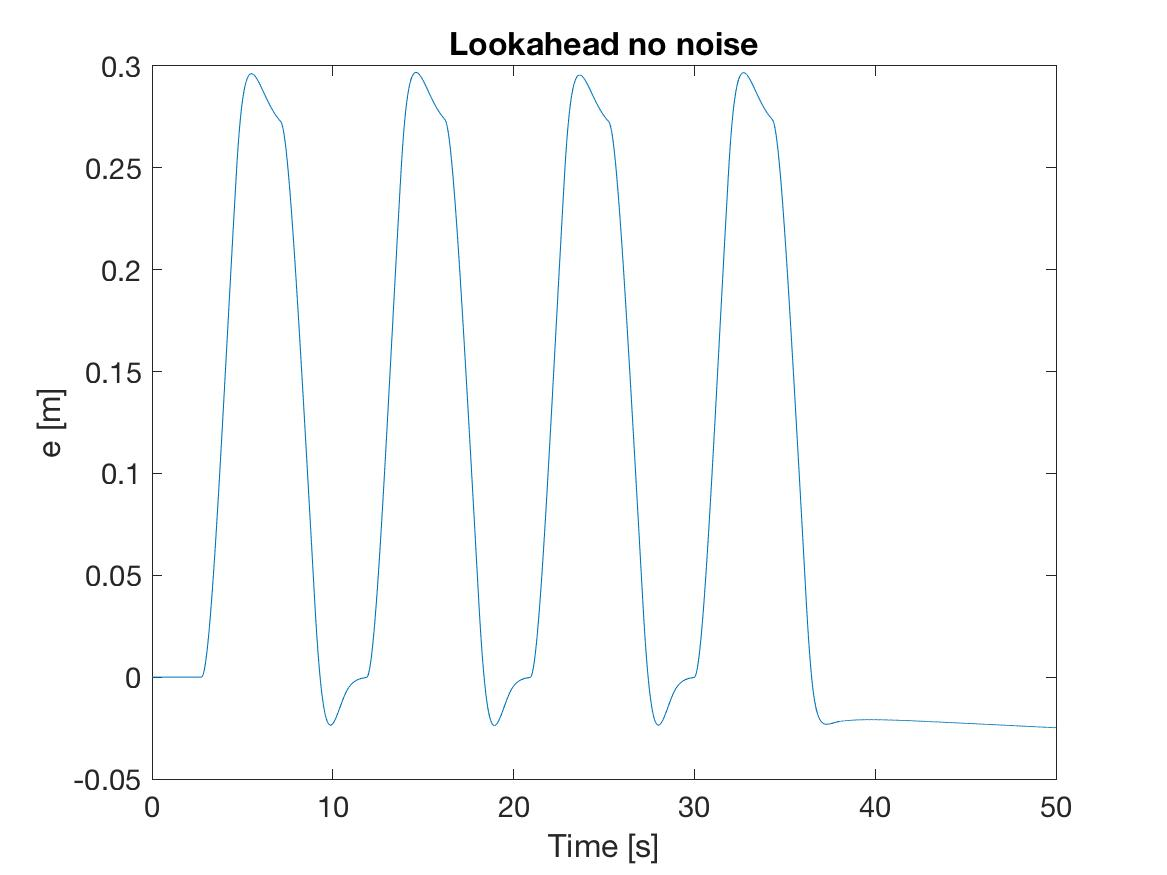
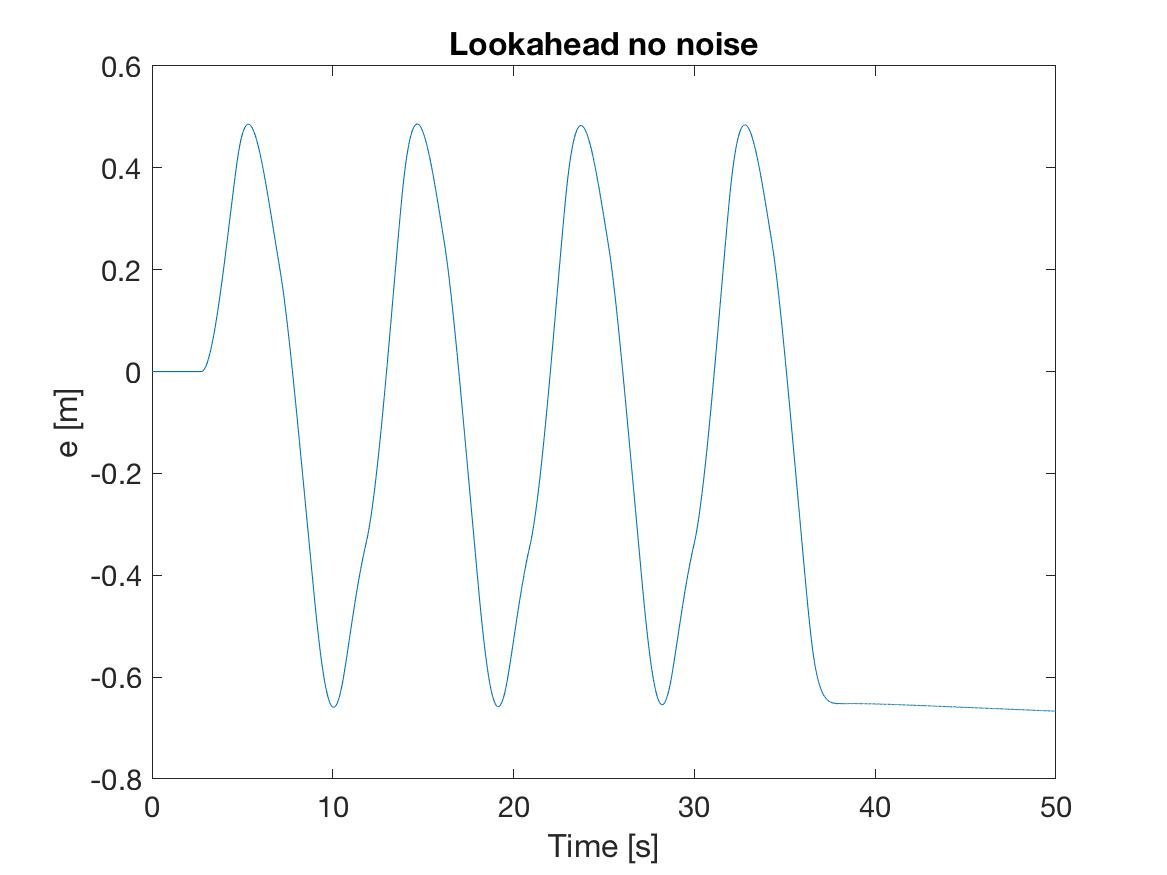
Code used in design review

diff --git a/planPathSimulation/testPlanPathInSim.m b/planPathSimulation/testPlanPathInSim.m
@@ -101,32 +101,32 @@ print('Lookahead_no_noise','-djpeg')
 % xlabel('Time [s]')
 % ylabel('\Delta \Psi [deg]')
 % 
-% figure
-% subplot(2,2,1)
-% plot(t_s, X1(:,7))
-% xlabel('Time [s]')
-% ylabel('a_x [m/s^2]')
-% grid on
-% 
-% subplot(2,2,2)
-% plot(t_s, X1(:,8))
-% xlabel('Time [s]')
-% ylabel('a_y [m/s^2]')
-% grid on
-% 
-% subplot(2,2,3)
-% plot(t_s, sqrt(X1(:,7).^2 + X1(:,8).^2))
-% xlabel('Time [s]')
-% ylabel('Total Acceleration')
-% grid on
-% 
-% subplot(2,2,4)
-% plot(t_s, X1(:,9))
-% hold on
-% plot(t_s, X1(:,1))
-% xlabel('Time [s]')
-% ylabel('Ux_des')
-% grid on
+figure
+subplot(2,2,1)
+plot(t_s, X1(:,7))
+xlabel('Time [s]')
+ylabel('a_x [m/s^2]')
+grid on
+
+subplot(2,2,2)
+plot(t_s, X1(:,8))
+xlabel('Time [s]')
+ylabel('a_y [m/s^2]')
+grid on
+
+subplot(2,2,3)
+plot(t_s, sqrt(X1(:,7).^2 + X1(:,8).^2))
+xlabel('Time [s]')
+ylabel('Total Acceleration')
+grid on
+
+subplot(2,2,4)
+plot(t_s, X1(:,9))
+hold on
+plot(t_s, X1(:,1))
+xlabel('Time [s]')
+ylabel('Ux_des')
+grid on
 
 
 

diff --git a/me227_controller.m b/me227_controller.m
@@ -129,13 +129,13 @@ function delta_rad = runLookaheadFFWController(veh, state, pathPlan)
 % a feedforward term.
 
     % Set controller gains/params
-    K_la = 25000;
-    x_la = 6;
+    K_la = 3500;
+    x_la = 15;
 
     dPsi_ss = pathPlan.curv*((veh.m * veh.a * (state.Ux_mps^2) / ...    
         (veh.L * veh.Car_lin)) - veh.b);
                
-    delta_ff = (K_la * x_la * dPsi_ss / veh.Caf) + ...
+    delta_ff = (K_la * x_la * dPsi_ss / veh.Caf_lin) + ...
         (pathPlan.curv * (veh.L + veh.K * state.Ux_mps^2));
     
     delta_rad = (-K_la * (state.e_m + (x_la * state.deltaPsi_rad)) / veh.Caf_lin) + delta_ff;
